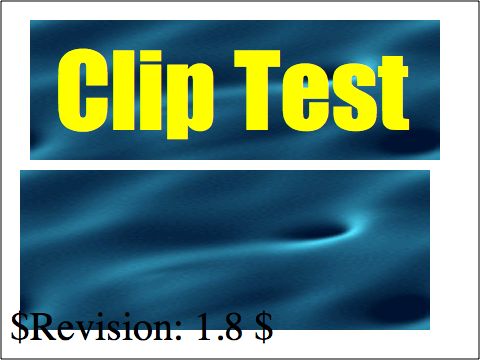
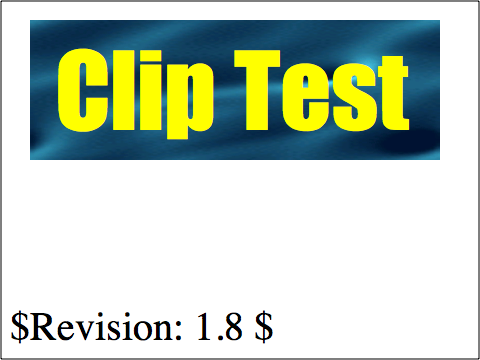
Reviewed by Mitz.
http://bugs.webkit.org/show_bug.cgi?id=15289
        WebKit does not respect clip paths of a 0x0 rect

        Make empty clip paths clip the whole referencing graphic.

Identifier: 22366@main
git-svn-id: https://svn.webkit.org/repository/webkit/trunk@28483 268f45cc-cd09-0410-ab3c-d52691b4dbfc

diff --git a/WebCore/svg/SVGClipPathElement.cpp b/WebCore/svg/SVGClipPathElement.cpp
@@ -88,6 +88,11 @@ SVGResource* SVGClipPathElement::canvasResource()
             pathStyle->deref(document()->renderArena());
         }
     }
+    if (m_clipper->clipData().isEmpty() ) {
+        Path pathData;
+        pathData.addRect(FloatRect());
+        m_clipper->addClipData(pathData, RULE_EVENODD, bbox);
+    }
     clipPathStyle->deref(document()->renderArena());
     return m_clipper.get();
 }

diff --git a/WebCore/svg/graphics/SVGResourceClipper.h b/WebCore/svg/graphics/SVGResourceClipper.h
@@ -54,6 +54,7 @@ namespace WebCore {
         
         void clear() { m_clipData.clear(); }
         const Vector<ClipData>& clipData() const { return m_clipData; }
+        bool isEmpty() const { return m_clipData.isEmpty(); }
     private:
         Vector<ClipData> m_clipData;
     };  
